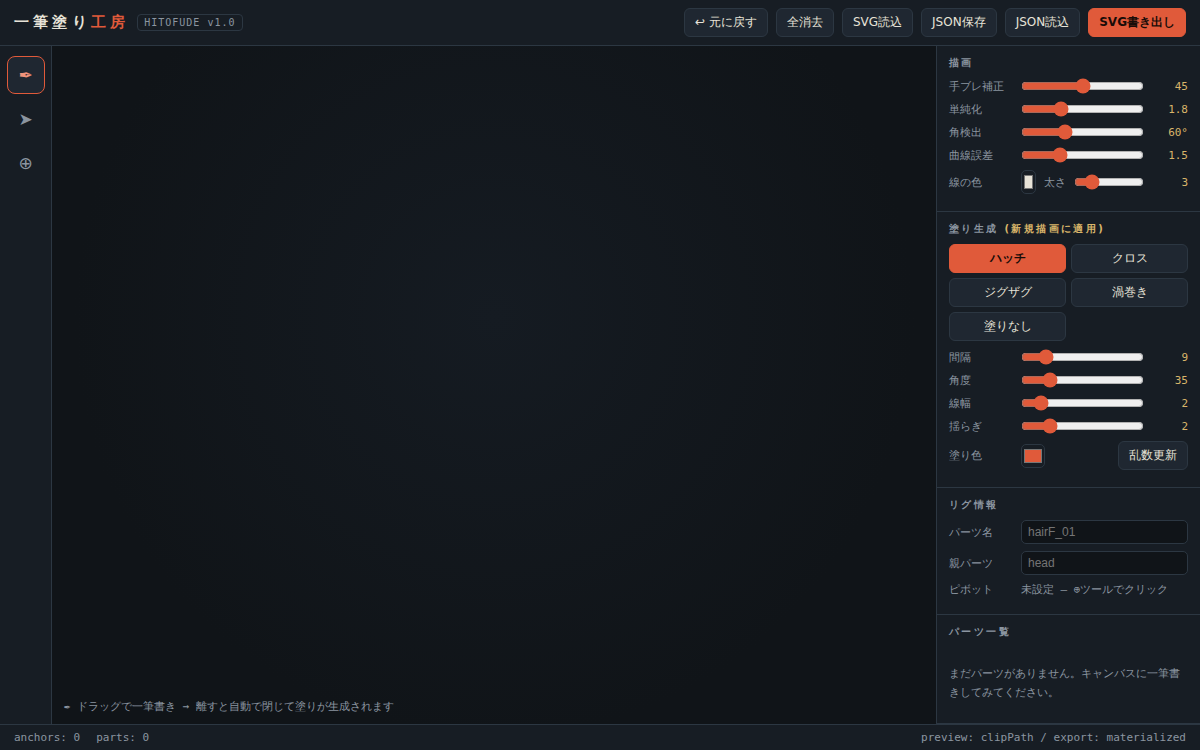
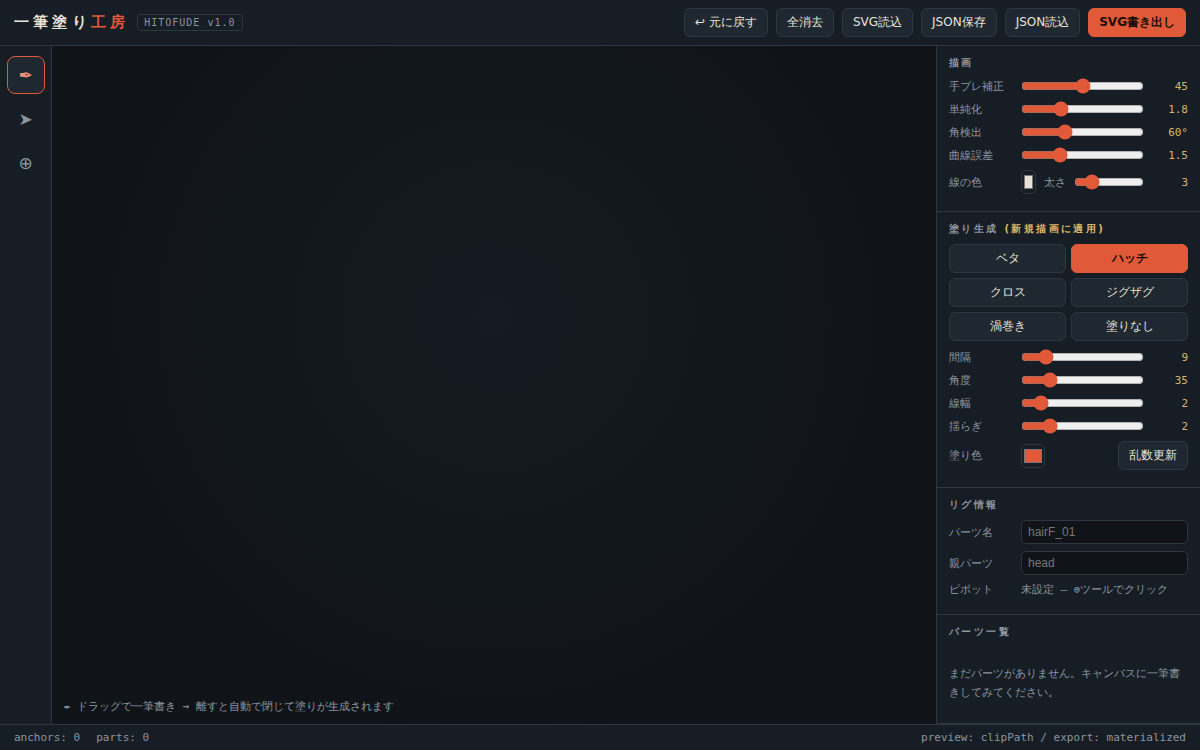
一筆塗り工房3を最新版に差し替え(ベタ塗り対応)

Changed region(s): [[0.7708, 0.3067, 1.0, 0.3987], [0.8017, 0.4293, 0.8633, 0.46], [0.925, 0.4293, 0.9558, 0.46]]

diff --git a/games/hitofude-studio-3.html b/games/hitofude-studio-3.html
@@ -92,6 +92,7 @@ footer{padding:6px 14px;background:var(--panel);border-top:1px solid var(--line)
     <div class="sec">
       <h2>塗り生成 <span id="fillTarget" style="color:var(--kin)"></span></h2>
       <div class="filltypes">
+        <button data-ft="solid">ベタ</button>
         <button data-ft="hatch" class="on">ハッチ</button>
         <button data-ft="cross">クロス</button>
         <button data-ft="zigzag">ジグザグ</button>
@@ -414,8 +415,11 @@ function render(){
   let defs='',body='';
   for(const sh of S.shapes){
     const d=shapePathD(sh);
-    const fd=previewFillD(sh);
+    const fd=sh.fill.type==='solid'?'':previewFillD(sh);
     const selMark = sh.id===S.sel ? `stroke-dasharray="none"` : '';
+    if(sh.fill.type==='solid'){
+      body+=`<path d="${d}" fill="${sh.fill.color}" stroke="none" pointer-events="none"/>`;
+    }
     if(fd){
       defs+=`<clipPath id="clip${sh.id}"><path d="${d}"/></clipPath>`;
       body+=`<path d="${fd}" clip-path="url(#clip${sh.id})" fill="none" stroke="${sh.fill.color}" stroke-width="${sh.fill.width}" stroke-linecap="round" pointer-events="none"/>`;
@@ -592,7 +596,9 @@ $('bExport').onclick=()=>{
     const pivotAttr=sh.rig.pivot?` data-pivot="${sh.rig.pivot[0].toFixed(1)},${sh.rig.pivot[1].toFixed(1)}"`:'';
     const parentAttr=sh.rig.parent?` data-parent="${sh.rig.parent}"`:'';
     out+=`  <g id="${nm}"${pivotAttr}${parentAttr}>\n`;
-    const fd=materializeFill(sh);
+    const fd=sh.fill.type==='solid'?'':materializeFill(sh);
+    if(sh.fill.type==='solid')
+      out+=`    <path class="fill" d="${shapePathD(sh)}" fill="${sh.fill.color}" stroke="none"/>\n`;
     if(fd) out+=`    <path class="fill" d="${fd}" fill="none" stroke="${sh.fill.color}" stroke-width="${sh.fill.width}" stroke-linecap="round"/>\n`;
     out+=`    <path class="outline" d="${shapePathD(sh)}" fill="none" stroke="${sh.outline.color}" stroke-width="${sh.outline.width}" stroke-linejoin="round"/>\n`;
     out+=`  </g>\n`;
@@ -662,7 +668,7 @@ function importSvg(text){
     S.shapes.push({id:uid++,pts:fitted.pts,bez:fitted.bez,
       outline:{color:p.stroke||defaults.outline.color,width:defaults.outline.width},
       fill:{...defaults.fill,color:p.fill||defaults.fill.color,
-        type:p.fill?defaults.fill.type:'none',seed:(Math.random()*1e9)|0},
+        type:p.fill?'solid':'none',seed:(Math.random()*1e9)|0},
       rig:{name:p.name?p.name+'_'+(++ci):('svg_'+(++ci)),parent:'',pivot:null}});}
   S.sel=S.shapes.at(-1)?.id??null;
   render();}

diff --git a/games/index.html b/games/index.html
@@ -33,7 +33,7 @@
         <img class="card-thumb" src="thumbs/hitofude-studio-3.png" alt="一筆塗り工房 3の画面" loading="lazy">
         <p class="chapter-no">制作ツール</p>
         <p class="chapter-name">一筆塗り工房 3</p>
-        <p class="chapter-teaser">SVG読込とベジェ曲線フィットに対応した一筆塗りの発展版。角検出・曲線誤差の調整つき。</p>
+        <p class="chapter-teaser">SVG読込・ベジェ曲線フィット・ベタ塗りに対応した一筆塗りの発展版。角検出・曲線誤差の調整つき。</p>
       </a>
       <a class="chapter-card" href="hitofude-studio.html">
         <img class="card-thumb" src="thumbs/hitofude-studio.png" alt="一筆塗り工房の画面" loading="lazy">
